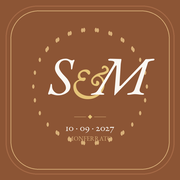
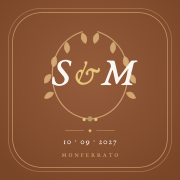
fix(assets): corregge sovrapposizione monogramma e cerchio su MONFERRATO nelle icone; semplifica etichetta whatsapp

diff --git a/index.html b/index.html
@@ -20,6 +20,7 @@
   <meta property="og:image:height" content="630">
 
   <!-- Favicon & Web App Manifest (PWA) / Apple Touch Icon -->
+  <link rel="icon" type="image/svg+xml" href="./images/favicon.svg">
   <link rel="icon" type="image/png" sizes="32x32" href="./images/favicon-32x32.png">
   <link rel="apple-touch-icon" sizes="180x180" href="./images/apple-touch-icon.png">
   <link rel="manifest" href="./manifest.json">
@@ -1110,9 +1111,9 @@
 
               <!-- Condivisione Rapida WhatsApp -->
               <div class="whatsapp-share-wrap">
-                <a href="https://api.whatsapp.com/send?text=Ciao!%20Ecco%20il%20link%20ufficiale%20del%20matrimonio%20di%20Sofia%20%26%20Mattia%20(10%20Settembre%202027)%20con%20programma%2C%20mappe%20e%20conferma%20presenza%3A%20https%3A%2F%2Fsofiamattia2027.github.io%2Fwedding%2F" target="_blank" rel="noopener noreferrer" class="whatsapp-share-btn" aria-label="Inoltra dettagli del matrimonio su WhatsApp">
+                <a href="https://api.whatsapp.com/send?text=Ciao!%20Ecco%20il%20link%20ufficiale%20del%20matrimonio%20di%20Sofia%20%26%20Mattia%20(10%20Settembre%202027)%20con%20programma%2C%20mappe%20e%20conferma%20presenza%3A%20https%3A%2F%2Fsofiamattia2027.github.io%2Fwedding%2F" target="_blank" rel="noopener noreferrer" class="whatsapp-share-btn" aria-label="Condividi l'invito su WhatsApp">
                   <svg width="18" height="18" viewBox="0 0 24 24" fill="currentColor" aria-hidden="true"><path d="M17.472 14.382c-.297-.149-1.758-.867-2.03-.967-.273-.099-.471-.148-.67.15-.197.297-.767.966-.94 1.164-.173.199-.347.223-.644.075-.297-.15-1.255-.463-2.39-1.475-.883-.788-1.48-1.761-1.653-2.059-.173-.297-.018-.458.13-.606.134-.133.298-.347.446-.52.149-.174.198-.298.298-.497.099-.198.05-.371-.025-.52-.075-.149-.669-1.612-.916-2.207-.242-.579-.487-.5-.669-.51-.173-.008-.371-.01-.57-.01-.198 0-.52.074-.792.372-.272.297-1.04 1.016-1.04 2.479 0 1.462 1.065 2.875 1.213 3.074.149.198 2.096 3.2 5.077 4.487.709.306 1.262.489 1.694.625.712.227 1.36.195 1.871.118.571-.085 1.758-.719 2.006-1.413.248-.694.248-1.289.173-1.413-.074-.124-.272-.198-.57-.347m-5.421 7.403h-.004a9.87 9.87 0 01-5.031-1.378l-.361-.214-3.741.982.998-3.648-.235-.374a9.86 9.86 0 01-1.51-5.26c.001-5.45 4.436-9.884 9.888-9.884 2.64 0 5.122 1.03 6.988 2.898a9.825 9.825 0 012.893 6.994c-.003 5.45-4.437 9.884-9.888 9.884m8.413-18.297A11.815 11.815 0 0012.05 0C5.495 0 .16 5.335.157 11.892c0 2.096.547 4.142 1.588 5.945L.05 24l6.305-1.654a11.882 11.882 0 005.683 1.448h.005c6.554 0 11.89-5.335 11.893-11.893a11.821 11.821 0 00-3.48-8.413z"/></svg>
-                  <span>Inoltra link invito al partner su WhatsApp</span>
+                  <span>Condividi l'invito su WhatsApp</span>
                 </a>
               </div>
             </form>
